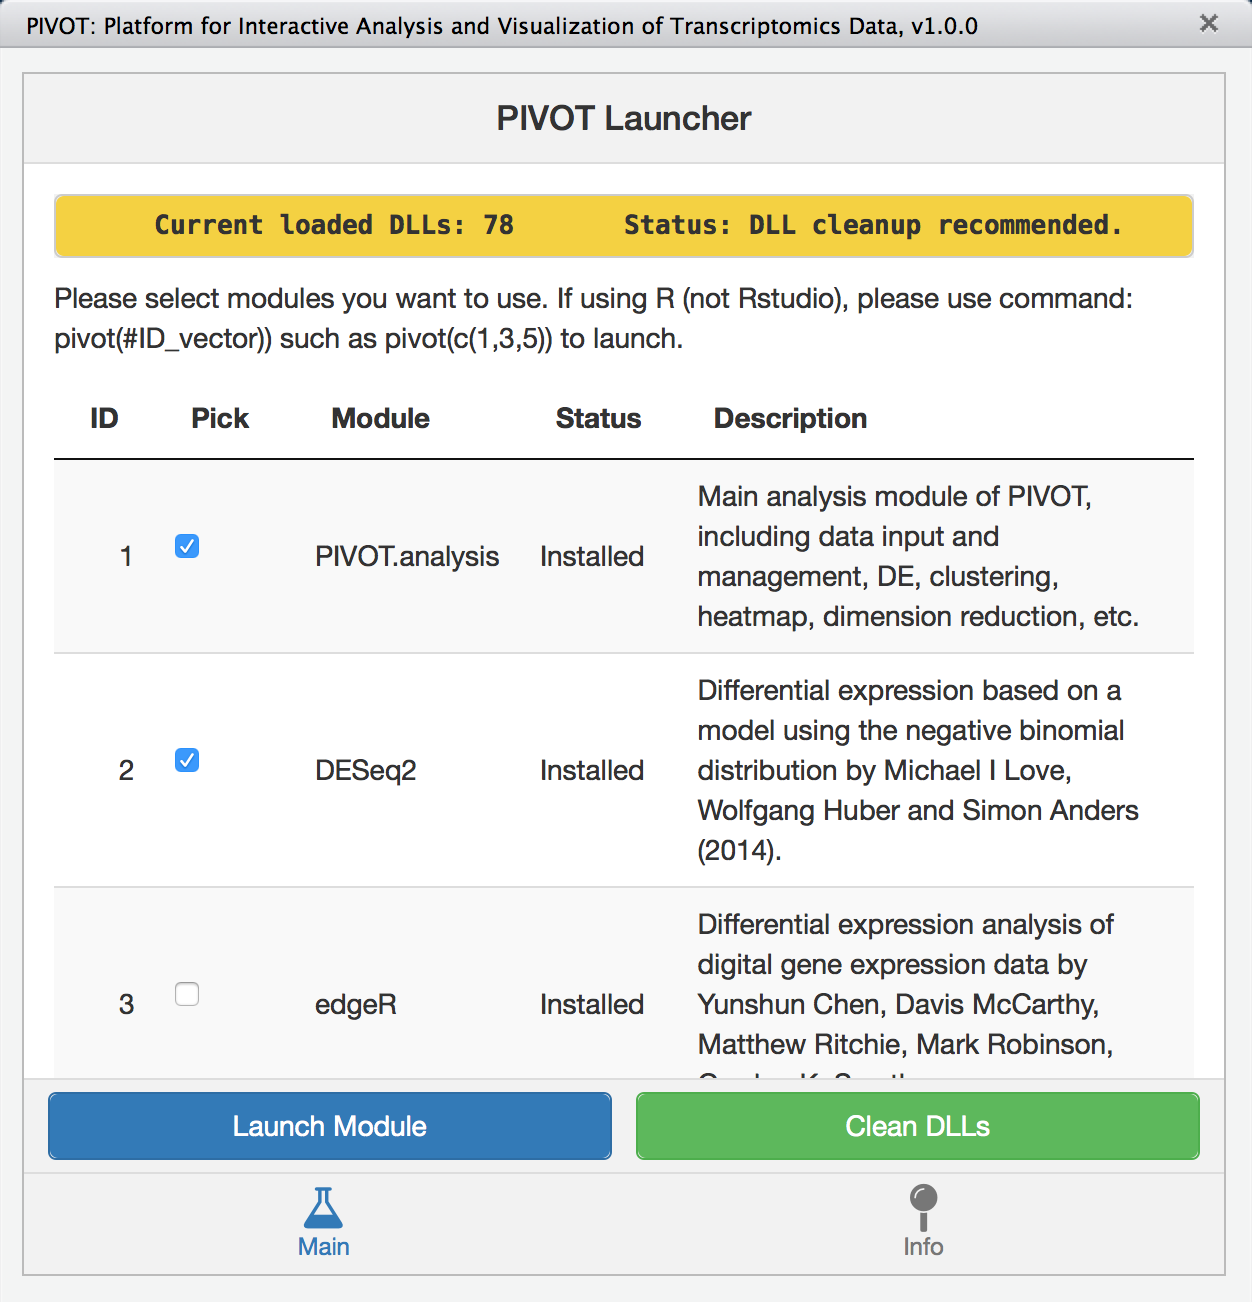
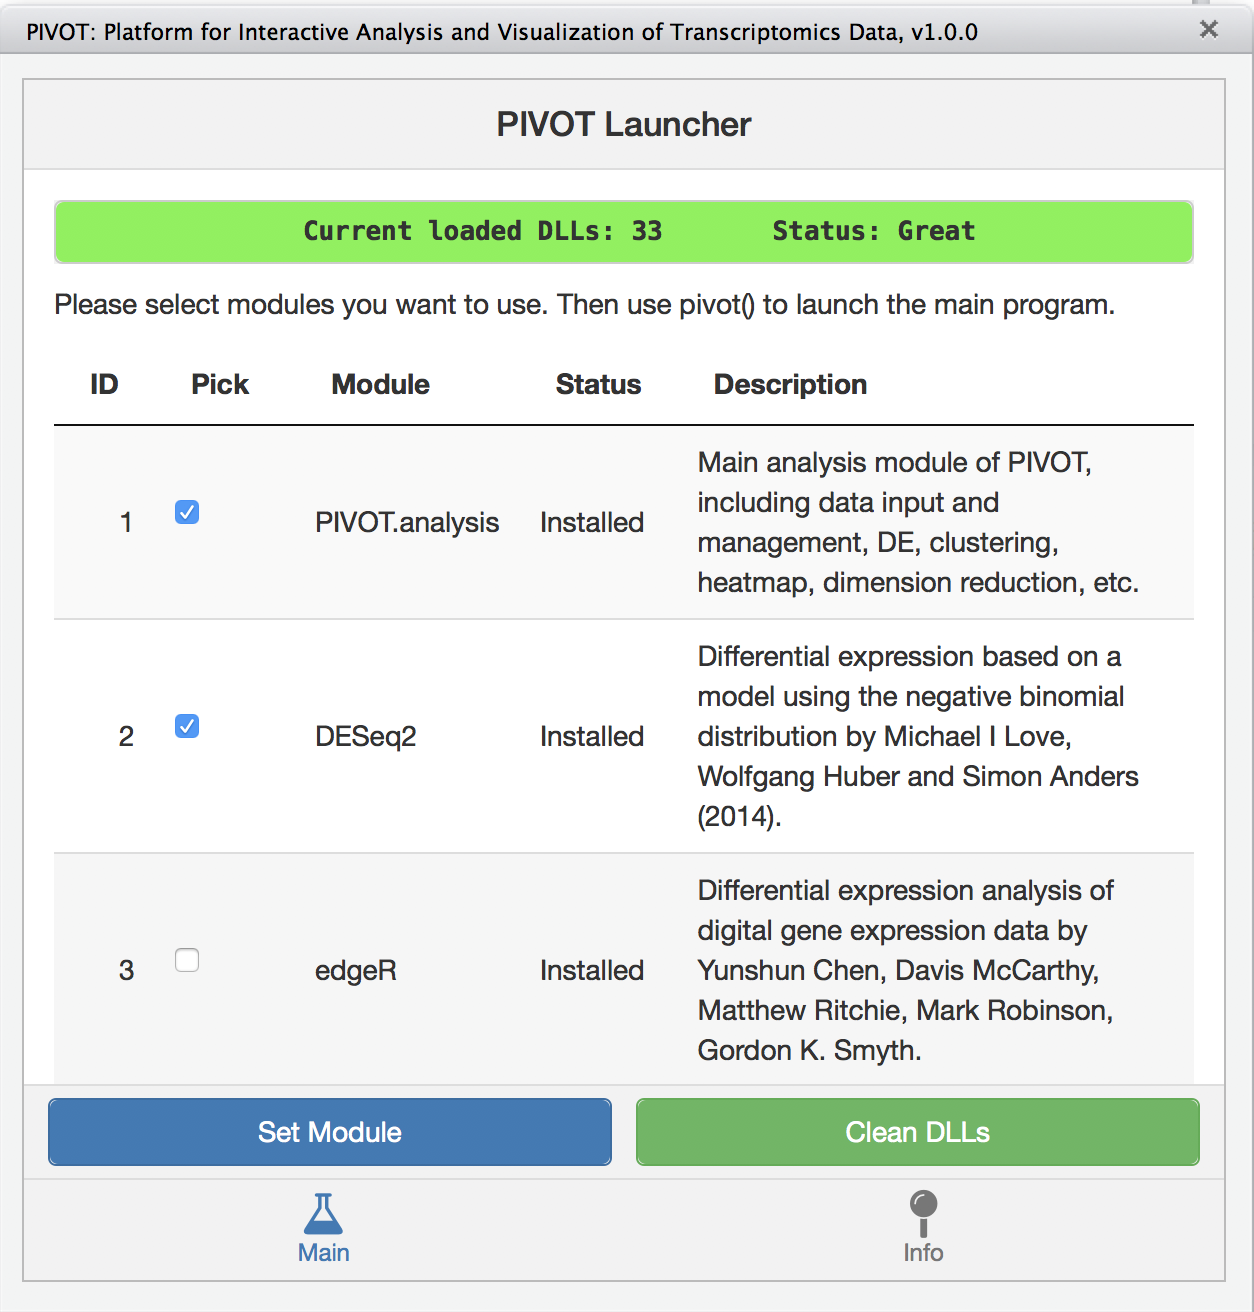
install update

diff --git a/README.md b/README.md
@@ -41,9 +41,41 @@ install_github("qinzhu/PIVOT.launcher")
 ## Running PIVOT
 
   * Note you MUST launch PIVOT with Rstudio.
-  * To run PIVOT, in Rstudio console, use command 
+  * To run PIVOT, in Rstudio console, first use command 
 ```
 library(PIVOT)
+```
+to load the PIVOT library.
+Then you can either use 
+```
+pivot_module()
+```
+which shows the available modules in PIVOT:
+
+    |ID|         Module|
+    |--------|-----------
+     | 1| PIVOT.analysis|
+      |2|         DESeq2|
+      |3|          edgeR|
+      |4|           scde|
+      |5|        monocle|
+      |6|  PIVOT.network|
+      |7|          caret|
+      |8|  PIVOT.toolkit|
+
+Then use `pivot(#ID_vector)` to launch selected modules, e.g., pivot(c(1,2,3)) to launch PIVOT with the base PIVOT module, DESeq2 and edgeR.
+
+Alternatively, use
+```
+pivot_launcher()
+```
+to launch a window to directly pick modules or install required components.
+
+![alt text](https://github.com/qinzhu/PIVOT/tree/master/inst/app/manual/figures/launcher.png)
+
+Press set module when ready, then launch PIVOT by calling
+
+```
 pivot()
 ```
 
